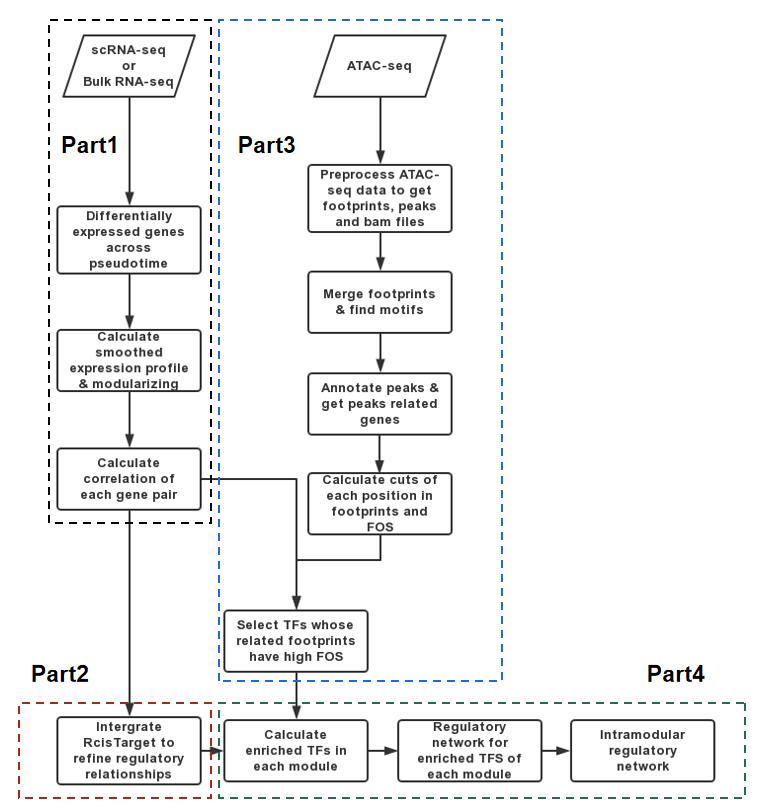
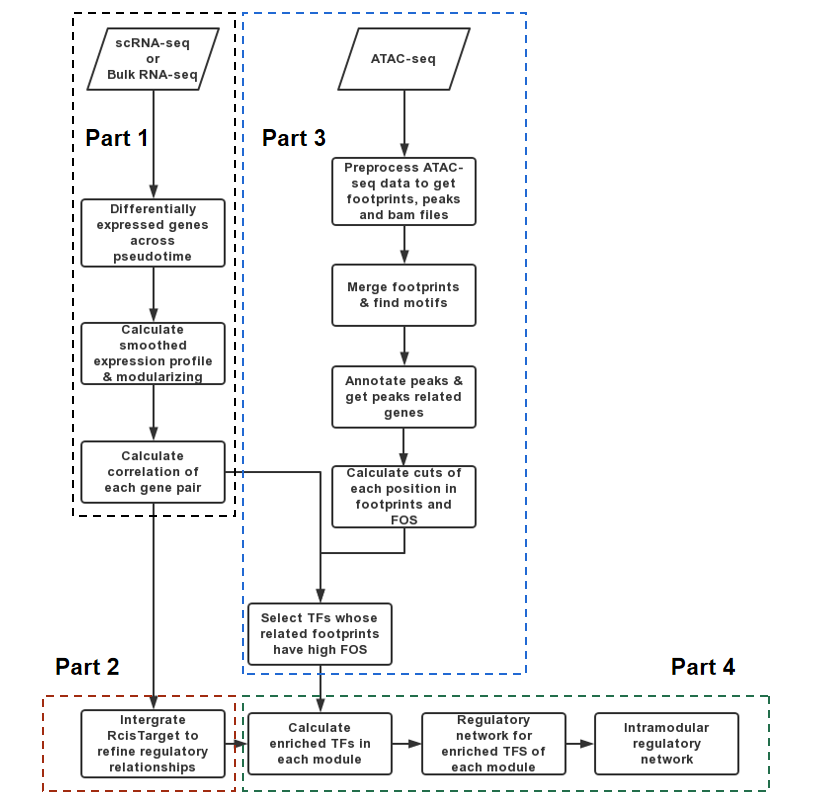
20210823

Changed region(s): [[0.0307, 0.0, 0.9526, 0.9925], [0.2766, 0.6917, 0.3073, 0.7218]]

diff --git a/README.md b/README.md
@@ -8,17 +8,21 @@
 
 IReNA (Integrated Regulatory Network Analysis) is to reconstruct
 regulatory networks through integrating scRNA-seq and ATAC-seq data.
+Compared with other regulatory network analysis method (SCENIC), IReNA
+provides modularized regulatory network analysis to discover the
+biological significance of transcription factors and the regulatory role
+of each module throughout the process.
 
 IReNA contains four main part to reconstruct regulatory network:
 
-Part1: Analyze scRNA-seq or bulk RNA-seq data to get basic regulatory
+Part 1: Analyze scRNA-seq or bulk RNA-seq data to get basic regulatory
 relationships between transcription factors and genes.
 
-Part2: Use RcisTarget to refine regulatory relaionships
+Part 2: Use RcisTarget to refine regulatory relaionships
 
-Part3: Analyze ATAC-seq data to refine regulatory relationships
+Part 3: Analyze ATAC-seq data to refine regulatory relationships
 
-Part4: Regultory network analysis.
+Part 4: Regultory network analysis.
 
 ![workflow](Readme%20figure/Workflow1.png)
 
@@ -166,20 +170,20 @@ motif1 <- Tranfac201803_Ch_MotifTFsF
 
 IReNA contains four main part to reconstruct regulatory network:
 
-Part1: Analyze scRNA-seq or bulk RNA-seq data to get basic regulatory
+Part 1: Analyze scRNA-seq or bulk RNA-seq data to get basic regulatory
 relationships
 
-Part2: Use RcisTarget to refine regulatory relaionships
+Part 2: Use RcisTarget to refine regulatory relaionships
 
-Part3: Analyze ATAC-seq data to refine regulatory relationships
+Part 3: Analyze ATAC-seq data to refine regulatory relationships
 
-Part4: Regultory network analysis.
+Part 4: Regultory network analysis.
 
 If you **have ATAC-seq data**, use **part3** to refine regulatory
 relationships. If you **don’t have ATAC-seq data**, use **part2** to
-refine regulatory relaionships
+refine regulatory relaionships.
 
-### Part1: Analyze scRNA-seq or bulk RNA-seq data to get basic regulatory relationships
+### Part 1: Analyze scRNA-seq or bulk RNA-seq data to get basic regulatory relationships
 
 IReNA supports two input format: (i)path of raw counts, you can input
 path of raw counts and use function in GReNA to load data and convert it
@@ -229,7 +233,7 @@ clustering[1:5,1:5]
 Visualize your clustering result through heatmap
 
 ``` r
-plot_kmeans_pheatmap(test_clustering,ModuleColor1 = c('#67C7C1','#67C1E3','#5BA6DA','#EF9951','#FFBF0F','#C067A9'))
+plot_kmeans_pheatmap(clustering,ModuleColor1 = c('#67C7C1','#67C1E3','#5BA6DA','#EF9951','#FFBF0F','#C067A9'))
 ```
 
 ![Kmeans](Readme%20figure/Kmeans_plot.png)
@@ -255,10 +259,10 @@ Kmeans_clustering_ENS[1:5,1:5]
 ``` r
 ### Caculate the correlation
 motif1 <- Tranfac201803_Hs_MotifTFsF
-regulatory_relaionships <- get_cor(Kmeans_clustering_ENS, motif = motif1, 0.6, start_column = 4)
+regulatory_relationships <- get_cor(Kmeans_clustering_ENS, motif = motif1, 0.6, start_column = 4)
 ```
 
-### Part2: Use RcisTarget to refine regulatory relaionships (without ATAC-seq data)
+### Part 2: Use RcisTarget to refine regulatory relaionships (without ATAC-seq data)
 
 For users who do not have ATAC-seq data, IReNA provides
 filter\_regulation function (Based on RcisTarget) to refine regulation
@@ -286,7 +290,7 @@ Rankingspath1 <- 'hg19-500bp-upstream-7species.mc9nr1.feather' # download from h
 filtered_regulatory_relationships <- filter_regulation(regulatory_relationships, 'Hs', Rankingspath1)
 ```
 
-### Part3: Analyze ATAC-seq data to refine regulatory relationships (have ATAC-seq data)
+### Part 3: Analyze ATAC-seq data to refine regulatory relationships (have ATAC-seq data)
 
 For users who have ATAC-seq data, IReNA provides several functions to
 calculate related transcription factors of footprints with high FOS to
@@ -413,7 +417,7 @@ potential_regulation <- Footprints_FOS(wig_list,list2[[2]])
 filtered_regulatory_relationships <- regulatory_relationships[regulatory_relationships$TF %in% potential_regulation$TF & regulatory_relationships$Target %in% potential_regulation$Target,]
 ```
 
-### Part4: Regulatory network analysis
+### Part 4: Regulatory network analysis
 
 After we get ‘filtered\_regulatory\_relationships’ and
 ‘Kmeans\_clustering\_ENS’, we can reconstruct regulatory network. Run
